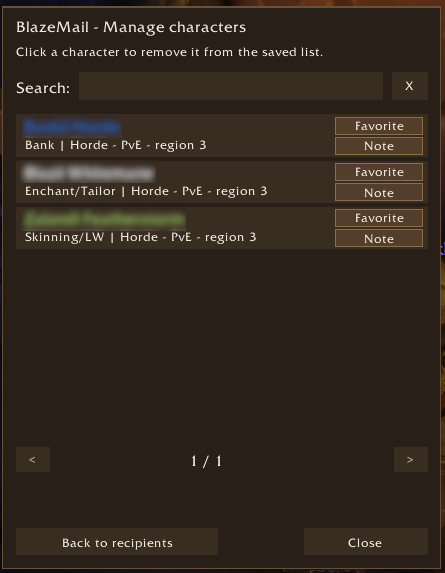
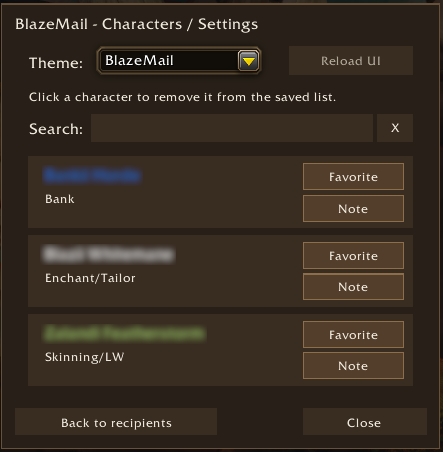
Show both BlazeMail themes and settings in the project README

diff --git a/README.md b/README.md
@@ -12,19 +12,19 @@ See [RELEASING.md](RELEASING.md) for publishing individual addon releases throug
 
   ![BlazeDisenchant tooltip showing estimated disenchant materials, drop chances, quantities and Auctionator value](./BlazeDisenchant/images/disenchant-tooltip.png)
 
-- [BlazeMail](./BlazeMail/) restyles the mailbox and adds a searchable recipient picker to the send-mail window. Select one of your alts to fill in the recipient field without typing the character's name.
+- [BlazeMail](./BlazeMail/) adds a searchable recipient picker to the Send Mail window. Select an alt to fill in the recipient field. In **Characters / Settings**, choose the dark **BlazeMail** theme or the **Blizzard** theme, then click **Reload UI** to apply the change.
 
-  **Inbox** — the restyled mailbox.
+  **Send Mail with the BlazeMail theme**
 
-  ![BlazeMail themed inbox with mail navigation and an empty mailbox](./BlazeMail/images/mailbox-inbox.png)
+  ![Dark BlazeMail compose window with a searchable recipient list showing alt names and notes](./BlazeMail/images/send-mail-recipients.png)
 
-  **Send Mail and recipient picker** — find an alt by name and select a recipient.
+  **Send Mail with the Blizzard theme**
 
-  ![BlazeMail send-mail window beside the searchable alt recipient list](./BlazeMail/images/send-mail-recipients.png)
+  ![Blizzard’s parchment mail form beside the recipient picker with matching Blizzard controls](./BlazeMail/images/send-mail-blizzard.png)
 
-  **Manage characters** — search saved characters, mark favorites and add notes.
+  **Characters / Settings**
 
-  ![BlazeMail character management with search, favorites and notes](./BlazeMail/images/manage-characters.png)
+  ![BlazeMail settings showing the theme dropdown, character search, favorites and notes](./BlazeMail/images/manage-characters.png)
 
 - [BlazeTweaks](./BlazeTweaks/) adds two independent options. One automatically opens newly acquired clams and other containers on a configurable list. The other automatically selects eligible NPC dialogue options. Hold Shift when talking to an NPC to choose manually.
 
